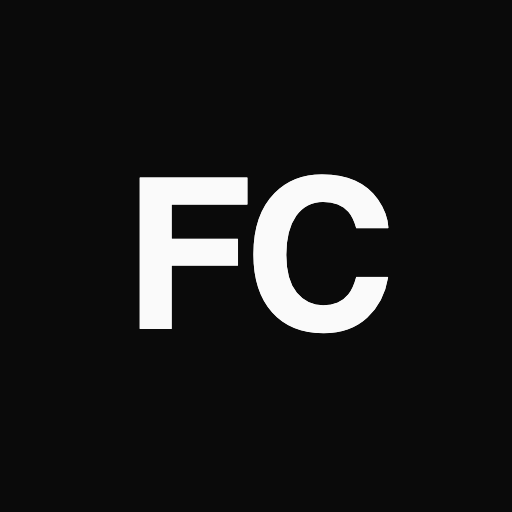
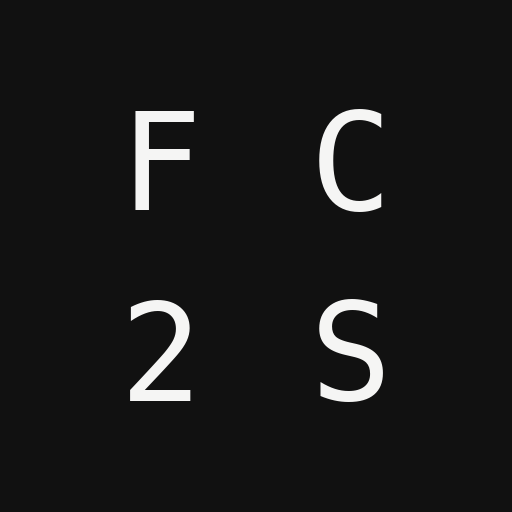
redo background

Changed region(s): [[0.25, 0.1875, 0.7812, 0.8125]]

diff --git a/assets/css/input.css b/assets/css/input.css
@@ -543,20 +543,46 @@
     }
   }
 
-  /* Brand mark for footer — open gold ring (artist-style reference), no mega-watermark. */
-  .footer-mark {
-    display: inline-block;
-    height: 1.75rem;
-    width: 1.75rem;
+  /* FC2S stamp. Square, not pill: the chrome is rounded-full, the mark is a
+     studio plate. Cells are 2x2 so four letters stay legible at 36px. */
+  .brand-mark {
+    display: grid;
+    grid-template-columns: 1fr 1fr;
+    grid-template-rows: 1fr 1fr;
+    place-items: center;
+    width: 2.25rem;
+    height: 2.25rem;
     flex-shrink: 0;
-    border-radius: 9999px;
-    background: conic-gradient(
-      from 200deg,
-      oklch(0.8 0.12 78) 0deg 250deg,
-      transparent 250deg 360deg
-    );
-    -webkit-mask: radial-gradient(farthest-side, transparent calc(100% - 3.5px), #000 calc(100% - 3px));
-    mask: radial-gradient(farthest-side, transparent calc(100% - 3.5px), #000 calc(100% - 3px));
+    border-radius: 0.5rem;
+    background: var(--foreground);
+    color: var(--background);
+    font-family: "Geist Mono", ui-monospace, monospace;
+    font-size: 0.625rem;
+    font-weight: 650;
+    letter-spacing: -0.06em;
+    line-height: 1;
+    user-select: none;
+  }
+
+  .brand-mark--sm {
+    width: 2rem;
+    height: 2rem;
+    font-size: 0.5625rem;
+    border-radius: 0.45rem;
+  }
+
+  .brand-mark--lg {
+    width: 4rem;
+    height: 4rem;
+    font-size: 1.0625rem;
+    font-weight: 600;
+    border-radius: 1rem;
+    letter-spacing: -0.04em;
+  }
+
+  .brand-mark--invert {
+    background: var(--background);
+    color: var(--foreground);
   }
 
   .status-dot {

diff --git a/ui/modules/brand_test.go b/ui/modules/brand_test.go
@@ -1,0 +1,38 @@
+package modules
+
+import (
+	"context"
+	"strings"
+	"testing"
+
+	"github.com/stretchr/testify/assert"
+	"github.com/stretchr/testify/require"
+)
+
+func renderBrandMark(t *testing.T, invert bool, size string) string {
+	t.Helper()
+	var sb strings.Builder
+	require.NoError(t, BrandMark(invert, size).Render(context.Background(), &sb))
+	return sb.String()
+}
+
+func TestBrandMarkRendersFC2SGrid(t *testing.T) {
+	body := renderBrandMark(t, false, "")
+	assert.Contains(t, body, `class="brand-mark"`)
+	for _, letter := range []string{"F", "C", "2", "S"} {
+		assert.Contains(t, body, ">"+letter+"</span>")
+	}
+	assert.NotContains(t, body, "brand-mark--invert")
+	assert.NotContains(t, body, "brand-mark--sm")
+	assert.NotContains(t, body, "brand-mark--lg")
+}
+
+func TestBrandMarkSizeAndInvertModifiers(t *testing.T) {
+	inverted := renderBrandMark(t, true, "lg")
+	assert.Contains(t, inverted, "brand-mark--invert")
+	assert.Contains(t, inverted, "brand-mark--lg")
+
+	small := renderBrandMark(t, false, "sm")
+	assert.Contains(t, small, "brand-mark--sm")
+	assert.NotContains(t, small, "brand-mark--invert")
+}

diff --git a/ui/modules/navbar_test.go b/ui/modules/navbar_test.go
@@ -78,3 +78,12 @@ func TestNavbarDrawerIncludesGitHub(t *testing.T) {
 	assert.GreaterOrEqual(t, strings.Count(body, `href="https://github.com/FACorreiaa"`), 2,
 		"GitHub should appear in the desktop bar and the mobile drawer")
 }
+
+func TestNavbarCarriesFC2SBrandMark(t *testing.T) {
+	body := renderNavbar(t, "home")
+	assert.Contains(t, body, "brand-mark")
+	assert.Contains(t, body, "brand-mark--sm")
+	assert.Contains(t, body, `aria-label="FC2S home, Fernando Correia Software Studio"`)
+	assert.GreaterOrEqual(t, strings.Count(body, ">F</span>"), 2)
+	assert.GreaterOrEqual(t, strings.Count(body, ">2</span>"), 2)
+}
